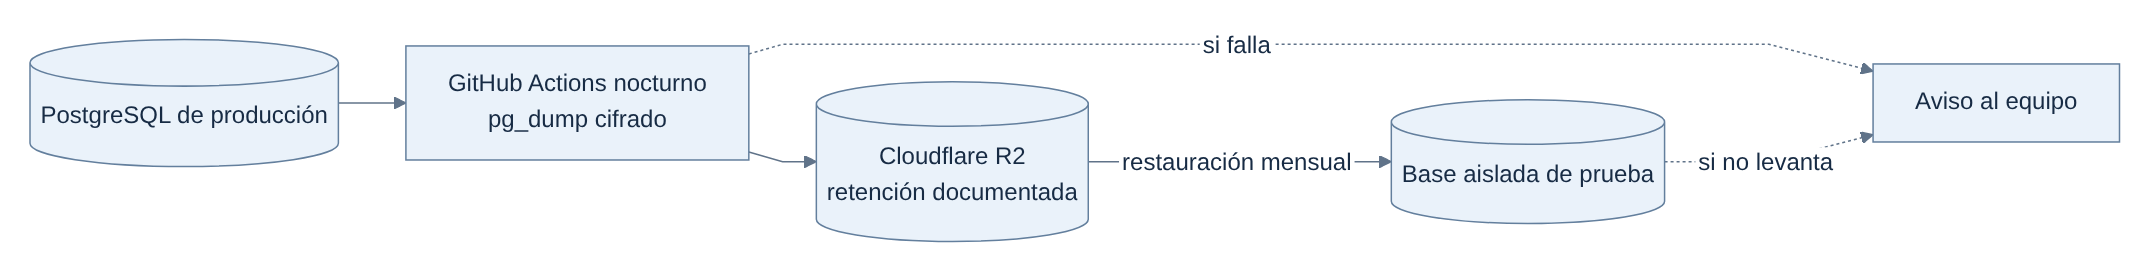
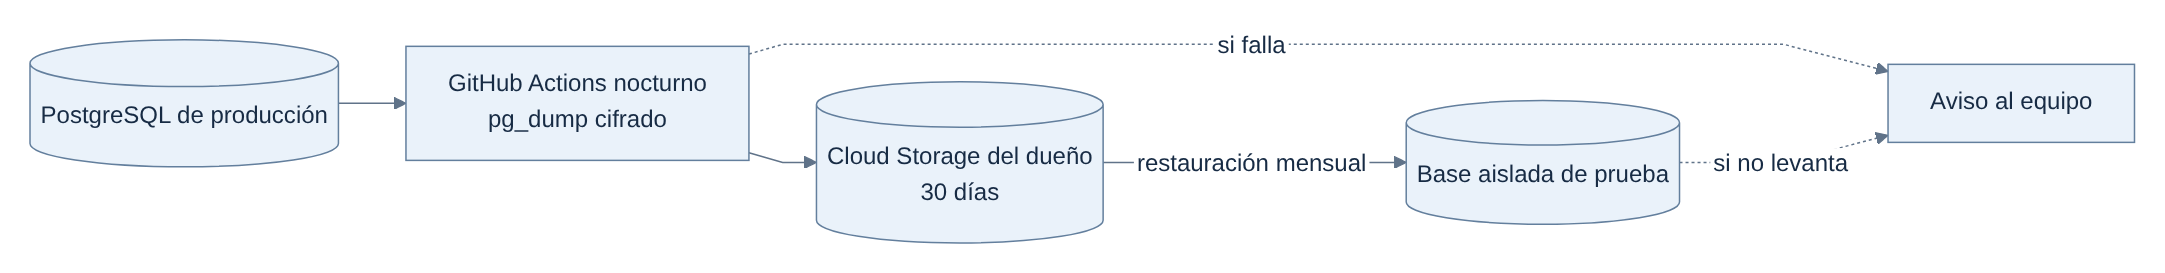
Move the nightly backup to Cloud Storage, encrypted for two keys
The backup never ran: it was skipped every night because R2 was not set up.
Now the paid accounts belong to the owner, so the backups go to a bucket in
his Google Cloud project, and he gets his own key to open them.

- backup.yml uploads to Cloud Storage with Workload Identity Federation
  (no new secrets) and encrypts with age for two keys, team and owner.
- The upload never overwrites a file, and the deploy service account can
  only create objects in the bucket.
- The login condition now also accepts backup.yml on main. Every other
  workflow still needs a v* tag.
- tools/gcp_backup_setup.sh creates the bucket, the 30 day rule, the bucket
  permission and the new login condition.
- ADR-0018, docs and diagrams updated. PG_MAJOR defaults to 18.

diff --git a/docs/diagramas/galeria.html b/docs/diagramas/galeria.html
@@ -34,11 +34,11 @@
         PG[(&quot;PostgreSQL&lt;br/&gt;Neon, con RLS&quot;)]
     end
     GA[&quot;GitHub Actions&lt;br/&gt;backup nocturno&quot;]
-    R2[(&quot;Cloudflare R2&lt;br/&gt;backups cifrados&quot;)]
+    GCS[(&quot;Cloud Storage del dueño&lt;br/&gt;backups cifrados&quot;)]
     Nav --&gt;|&quot;HTTPS, sesión con cookie&quot;| App
     App --&gt; PG
     GA --&gt;|&quot;pg_dump&quot;| PG
-    GA --&gt; R2</code></pre></details><a class="back" href="#inicio">Volver al índice</a></section>
+    GA --&gt; GCS</code></pre></details><a class="back" href="#inicio">Volver al índice</a></section>
 <section id="ARQ-03"><header><p>01-arquitectura.md · diseño objetivo o propuesta, sin implementación comprobada · HU-001, HU-003, HU-020</p><h2>ARQ-03. Capas y apps del backend</h2><nav><a href="01-arquitectura.md#arq-03">Explicación y escenarios</a><a href="png/ARQ-03.png">PNG</a><a href="svg/ARQ-03.svg">SVG</a><a href="fuentes/ARQ-03.mmd">Fuente Mermaid</a></nav></header><div class="drawing"><img src="svg/ARQ-03.svg" alt="ARQ-03. Capas y apps del backend" loading="lazy"></div><details><summary>Ver Mermaid editable</summary><pre><code>flowchart TB
     subgraph Front[&quot;frontend: React&quot;]
         direction LR
@@ -350,10 +350,10 @@
 <section id="OPS-01"><header><p>08-operacion.md · diseño objetivo o propuesta, sin implementación comprobada · HU-016, HU-029</p><h2>OPS-01. Backups y restauración probada</h2><nav><a href="08-operacion.md#ops-01">Explicación y escenarios</a><a href="png/OPS-01.png">PNG</a><a href="svg/OPS-01.svg">SVG</a><a href="fuentes/OPS-01.mmd">Fuente Mermaid</a></nav></header><div class="drawing"><img src="svg/OPS-01.svg" alt="OPS-01. Backups y restauración probada" loading="lazy"></div><details><summary>Ver Mermaid editable</summary><pre><code>flowchart LR
     PG[(&quot;PostgreSQL de producción&quot;)]
     GA[&quot;GitHub Actions nocturno&lt;br/&gt;pg_dump cifrado&quot;]
-    R2[(&quot;Cloudflare R2&lt;br/&gt;retención documentada&quot;)]
+    GCS[(&quot;Cloud Storage del dueño&lt;br/&gt;30 días&quot;)]
     Prueba[(&quot;Base aislada de prueba&quot;)]
     Aviso[&quot;Aviso al equipo&quot;]
-    PG --&gt; GA --&gt; R2
-    R2 --&gt;|&quot;restauración mensual&quot;| Prueba
+    PG --&gt; GA --&gt; GCS
+    GCS --&gt;|&quot;restauración mensual&quot;| Prueba
     GA -.-&gt;|&quot;si falla&quot;| Aviso
     Prueba -.-&gt;|&quot;si no levanta&quot;| Aviso</code></pre></details><a class="back" href="#inicio">Volver al índice</a></section></main></body></html>

diff --git a/docs/operacion/puesta-en-marcha.md b/docs/operacion/puesta-en-marcha.md
@@ -8,9 +8,8 @@ Paso a paso para publicar los cuadernos por primera vez, y cómo se publica cada
 
 | Cuenta | Para qué | Costo esperado |
 |---|---|---|
-| Google Cloud | Correr la app (Cloud Run) y guardar los secretos | USD 0 dentro del cupo gratis. Pide tarjeta |
+| Google Cloud | Correr la app (Cloud Run), guardar los secretos y los backups | USD 0 dentro del cupo gratis, más centavos por los backups. Pide tarjeta |
 | Neon | La base de datos | USD 0 en el plan Free |
-| Cloudflare | Guardar los backups (R2) | USD 0 hasta 10 GB. Pide tarjeta para activar R2 |
 | GitHub | Ya está: corre los chequeos, publica y hace el backup | USD 0 |
 
 Tiempo estimado la primera vez: una hora y media.
@@ -26,7 +25,7 @@ Tiempo estimado la primera vez: una hora y media.
 ## 2. Neon: la base
 
 1. Creá un proyecto en Neon con región **AWS South America (São Paulo)**.
-2. Anotá la **versión de Postgres** que eligió (por ejemplo 17). La vas a cargar en GitHub como `PG_MAJOR`.
+2. Anotá la **versión de Postgres** que eligió (por ejemplo 18). La vas a cargar en GitHub como `PG_MAJOR`.
 3. Creá una base llamada `cuadernos` (o usá la que viene, `neondb`, da igual: lo que importa es que la cadena de conexión apunte a ella).
 4. En **Connect**, copiá la cadena de conexión **directa** (con "Connection pooling" apagado). Termina en `?sslmode=require`. No la pegues en ningún lado todavía: la pide el script del paso 3.
 5. Creá el usuario de solo lectura para los backups. En el **SQL Editor** de Neon, con un password largo generado por el gestor de contraseñas:
@@ -68,27 +67,38 @@ Al final imprime seis valores (`GCP_PROJECT_ID`, `GCP_PROJECT_NUMBER`, etc.). **
 
 Si lo corrés de nuevo, no rompe nada: saltea lo que ya existe.
 
-## 4. Cloudflare R2: dónde viven los backups
+## 4. Google Cloud: el bucket de los backups (script)
 
-1. En Cloudflare, activá **R2** y creá un bucket llamado `cuadernos-backups`.
-2. En el bucket, agregá una regla de ciclo de vida: **borrar los objetos con prefijo `daily/` a los 35 días**. Esa es la retención documentada.
-3. Creá un token de API de R2 con permiso **Object Read & Write**, limitado a ese bucket. Te da un **Access Key ID** y un **Secret Access Key**: van al gestor de contraseñas y después a GitHub.
-4. Anotá el **Account ID** de Cloudflare (aparece en la página de R2).
+En el mismo Cloud Shell del paso 3:
+
+```bash
+bash tools/gcp_backup_setup.sh ID-DEL-PROYECTO
+```
+
+El script:
+
+- Crea un bucket privado, `ID-DEL-PROYECTO-backups`, que borra solo los backups de más de 30 días.
+- Deja que la cuenta de servicio de deploy **solo cree archivos** en ese bucket. No puede leer, pisar ni borrar backups.
+- Deja que GitHub entre desde `main`, pero solo para el workflow de backup. Para todo lo demás sigue haciendo falta un tag `v...`.
+
+Al final imprime `GCS_BACKUP_BUCKET`. No es secreto: va a GitHub en el paso 6.
 
 ## 5. La clave para cifrar los backups
 
-Los backups se cifran con [age](https://github.com/FiloSottile/age). GitHub tiene solo la clave **pública**: puede cifrar, pero no leer. La privada queda con el equipo.
+Los backups se cifran con [age](https://github.com/FiloSottile/age) para **dos claves**: la del equipo y la del dueño. Cualquiera de las dos abre el backup, así el dueño puede recuperar sus datos aunque el equipo no esté. GitHub tiene solo las claves **públicas**: puede cifrar, pero no leer.
 
 En tu PC:
 
 ```bash
 # Windows: winget install FiloSottile.age   macOS: brew install age   Linux: apt install age
 age-keygen -o cuadernos-backup.key
+age-keygen -o cuadernos-backup-duenio.key
 ```
 
-- Muestra la clave pública, empieza con `age1...`. Va a GitHub como `BACKUP_AGE_RECIPIENT`.
-- El archivo `cuadernos-backup.key` es la clave privada. **Guardalo en el gestor de contraseñas.** Sin ese archivo, los backups no se pueden abrir: perderlo es como no tener backups.
-- Nunca lo subas al repo.
+- Cada comando muestra una clave pública, empieza con `age1...`. Las dos van a GitHub en `BACKUP_AGE_RECIPIENTS`, separadas por un espacio.
+- `cuadernos-backup.key` es la clave privada del equipo. **Guardala en el gestor de contraseñas.**
+- `cuadernos-backup-duenio.key` es la del dueño. **Imprimila y dásela en un sobre cerrado**, junto con una hoja que diga qué es y que se la dé a un programador si algún día hace falta restaurar. Después borrá el archivo de tu PC.
+- Sin las claves privadas los backups no se pueden abrir: perder las dos es como no tener backups. Nunca las subas al repo.
 
 ## 6. GitHub: environments, variables y secretos
 
@@ -106,18 +116,15 @@ En el repo, **Settings**:
 | Variable | Valor |
 |---|---|
 | `GCP_PROJECT_ID`, `GCP_PROJECT_NUMBER`, `GCP_REGION`, `GCP_WIF_PROVIDER`, `GCP_DEPLOY_SA`, `GCP_RUNTIME_SA` | Los que imprimió el script del paso 3 |
-| `R2_ACCOUNT_ID` | El Account ID de Cloudflare |
-| `R2_BUCKET` | `cuadernos-backups` |
-| `BACKUP_AGE_RECIPIENT` | La clave pública `age1...` |
-| `PG_MAJOR` | La versión de Postgres de Neon, por ejemplo `17` |
+| `GCS_BACKUP_BUCKET` | El que imprimió el script del paso 4 |
+| `BACKUP_AGE_RECIPIENTS` | Las dos claves públicas `age1...`, separadas por un espacio |
+| `PG_MAJOR` | La versión de Postgres de Neon, por ejemplo `18`. Si falta, el backup usa 18 |
 
 **Secretos del environment `backup`** (dentro del environment, no a nivel repo):
 
 | Secreto | Valor |
 |---|---|
 | `BACKUP_DATABASE_URL` | La cadena de conexión con `cuadernos_backup` |
-| `R2_ACCESS_KEY_ID` | Del token de R2 |
-| `R2_SECRET_ACCESS_KEY` | Del token de R2 |
 
 ## 7. Primera publicación
 
@@ -153,7 +160,7 @@ Después, en `https://LA-DIRECCIÓN/admin/`, cargá los locales, las personas, s
 ## 9. Primer backup y primera restauración
 
 1. En **Actions > Backup > Run workflow**, correlo a mano. Tiene que terminar en verde y mostrar el tamaño del archivo.
-2. Bajá ese archivo desde el bucket de R2.
+2. Bajá ese archivo desde el bucket de Cloud Storage (`daily/`).
 3. Restauralo en una base vacía de tu PC, siguiendo [backups](backups.md#restaurar).
 4. Si los números coinciden con producción, anotalo en la tabla de [backups](backups.md#registro-de-restauraciones).
 

diff --git a/docs/operacion/backups.md b/docs/operacion/backups.md
@@ -8,19 +8,20 @@ La nube es la única copia de los cuadernos ([ADR-0004](../adr/0004-entornos-hos
 |---|---|
 | Cuándo | Todas las noches a las 03:17 (hora de Argentina), con el workflow `Backup` de GitHub Actions. También a mano con "Run workflow" |
 | Qué guarda | Toda la base, con `pg_dump` en formato custom, leída con un usuario de solo lectura |
-| Cifrado | Con `age`. GitHub tiene solo la clave pública. La privada está en el gestor de contraseñas del equipo |
-| Dónde | Cloudflare R2, bucket `cuadernos-backups`, carpeta `daily/`. Otro proveedor que la base |
-| Cuánto tiempo | 35 días, con una regla de ciclo de vida del bucket |
+| Cifrado | Con `age`, para dos claves: la del equipo y la del dueño. Cualquiera de las dos abre el backup. GitHub tiene solo las claves públicas |
+| Dónde | Cloud Storage, bucket `cuadernos-prod-backups` en el proyecto de Google Cloud del dueño, carpeta `daily/`. La base está en Neon, así que la copia queda en otro proveedor |
+| Cuánto tiempo | 30 días, con una regla de ciclo de vida del bucket |
+| Quién sube | La cuenta de servicio de deploy, que en ese bucket solo puede crear archivos: no puede leer, pisar ni borrar backups |
 | Si falla | GitHub manda un email a quien modificó por última vez el workflow. Revisar la pestaña Actions una vez por semana |
 
-Neon Free no restaura a un punto en el tiempo. Si alguien borra datos a las 15 h, se vuelve al backup de la noche anterior y se pierde lo cargado ese día.
+Neon Free permite volver la base a cualquier momento de las **últimas 6 horas** (Backup & Restore en la consola de Neon). Sirve para un error del día. Para algo más viejo, o si se pierde el proyecto de Neon, se vuelve al backup de la noche anterior y se pierde lo cargado ese día.
 
 ## Restaurar
 
 Sirve para la prueba mensual y para recuperarse de un desastre. Se hace en una base **vacía y aislada**, nunca sobre producción.
 
-1. Bajá el backup desde R2 (`daily/cuadernos-AAAAMMDD-HHMMSS.dump.age`).
-2. Tené a mano la clave privada `cuadernos-backup.key` del gestor de contraseñas.
+1. Bajá el backup desde la consola de Google Cloud: **Cloud Storage > Buckets > `cuadernos-prod-backups` > `daily/`** (`cuadernos-AAAAMMDD-HHMMSS.dump.age`). Hace falta una cuenta con permiso de lectura en el proyecto (Owner o Viewer).
+2. Tené a mano una de las dos claves privadas: la del equipo (`cuadernos-backup.key`, en el gestor de contraseñas) o la del dueño (impresa, en el sobre).
 3. Levantá Postgres local y creá una base vacía. Con el Docker Compose del repo:
 
 ```bash
@@ -39,7 +40,7 @@ El script se niega a escribir en una base que no esté vacía o que parezca la d
 5. Compará esos números con producción (por ejemplo, desde el admin). Si coinciden, anotalo abajo.
 6. Borrá la base de prueba y el archivo bajado: tienen datos reales.
 
-> La versión de Postgres local tiene que ser igual o mayor que la de Neon. Si Neon está en 17 y el Compose en 16, cambiá la imagen de `db` a `postgres:17` para esta prueba.
+> La versión de Postgres local tiene que ser igual o mayor que la de Neon. Neon está en 18 y el Compose en 16: para esta prueba cambiá la imagen de `db` a `postgres:18` (en un volumen nuevo, porque los datos de una versión mayor no los lee otra).
 
 ## Registro de restauraciones
 

diff --git a/docs/adr/0018-backups-en-cloud-storage-del-duenio.md b/docs/adr/0018-backups-en-cloud-storage-del-duenio.md
@@ -1,0 +1,34 @@
+# ADR-0018. Los backups van a Cloud Storage, en el proyecto del dueño, cifrados para dos claves
+
+- **Estado:** propuesta, 26/11/2026. Reemplaza la fila "Backup" de [ADR-0007](0007-deploy-r1a.md).
+
+## Contexto
+
+ADR-0007 mandaba los backups a Cloudflare R2, en una cuenta del equipo. Ahora las cuentas con costo pasan a nombre del dueño (P-04): el proyecto de Google Cloud y la organización de Neon quedan a su nombre y los paga él. Los backups seguían en una cuenta del equipo, con la tarjeta del equipo, y se cifraban con una sola clave que tenía solo el equipo. Si el equipo no está, el dueño no tiene cómo recuperar sus datos.
+
+Además, el workflow de backup nunca llegó a correr: se salteaba todas las noches porque faltaba configurar R2.
+
+## Opciones
+
+1. **Seguir con R2 en la cuenta del equipo.** Gratis a este tamaño, pero queda fuera de las cuentas del dueño y suma un secreto más en GitHub (el token de R2).
+2. **Google Drive del dueño.** Con una cuenta de Gmail común, una cuenta de servicio no puede guardar archivos en Mi unidad. Haría falta OAuth en nombre del dueño: el token vence cada 7 días mientras la app está en modo de prueba, y dejaría en GitHub una credencial con acceso a su Drive.
+3. **Un hosting web.** No está pensado para guardar backups, cuesta todos los meses y suma otro secreto con más permisos de los necesarios.
+4. **Un bucket de Cloud Storage en el proyecto del dueño.** Lo paga él (centavos a este tamaño), GitHub ya entra a ese proyecto sin archivos de clave y no hace falta ningún secreto nuevo.
+
+## Decisión
+
+Opción 4.
+
+- Bucket privado `cuadernos-prod-backups` en `southamerica-east1`, con una regla que borra lo de `daily/` a los 30 días (ADR-0007 decía 35). Lo crea `tools/gcp_backup_setup.sh`.
+- Sube la cuenta de servicio de deploy, que en ese bucket tiene solo `roles/storage.objectCreator`: puede crear archivos, pero no leerlos, pisarlos ni borrarlos. La subida usa `ifGenerationMatch=0`, así nunca reemplaza un backup existente.
+- Para que el backup nocturno pueda entrar desde `main`, la condición de Workload Identity Federation acepta, además de los tags `v*`, **solo** el workflow `backup.yml` en `main` (claim `workflow_ref`). Cualquier otro workflow en `main` sigue sin poder entrar.
+- El backup se cifra con `age` para **dos claves**: la del equipo (en el gestor de contraseñas) y la del dueño (impresa, en un sobre). Cualquiera de las dos lo abre.
+
+Se eligió no crear una cuenta de servicio aparte para el backup.
+
+## Consecuencias
+
+- Los backups quedan en las cuentas del dueño y a su costo, y él puede recuperar sus datos sin depender del equipo.
+- Backup y base siguen en proveedores distintos (Google y Neon).
+- La cuenta de deploy ahora también se usa desde `main`, aunque solo desde `backup.yml`. Quien pueda cambiar ese archivo en `main` podría usar los permisos de deploy (Cloud Run Admin). Hoy solo el equipo puede mergear a `main`. Si eso cambia, conviene separar el backup en una cuenta de servicio propia, que solo pueda crear archivos en el bucket.
+- El backup y la app quedan en el mismo proyecto de Google Cloud. Si se borra el proyecto entero, se van los dos. La base no, porque está en Neon.

diff --git a/docs/adr/README.md b/docs/adr/README.md
@@ -18,7 +18,7 @@ Un ADR registra una decisión importante: el contexto, las opciones que se mirar
 | [0004](0004-entornos-hosting-ci-cd.md) | Entornos, hosting de bajo costo y CI/CD | Aceptada | ADR-0008, sin servidor local ni ARCA |
 | [0005](0005-analisis-estatico-seguridad.md) | Análisis estático de seguridad (SAST) en CI | Aceptada | ADR-0009 |
 | [0006](0006-react-servido-por-django.md) | El portal React lo sirve Django, con sesión por cookie | Propuesta | Nueva |
-| [0007](0007-deploy-r1a.md) | Cómo se publica R1a: San Pablo, un solo entorno, tag con aprobación | Propuesta | Nueva |
+| [0007](0007-deploy-r1a.md) | Cómo se publica R1a: San Pablo, un solo entorno, tag con aprobación | Propuesta (la fila del backup cambiada por ADR-0018) | Nueva |
 | [0008](0008-haber-calculado-sin-espejo.md) | El haber se calcula desde el medio de pago, sin ventas espejo | Propuesta (el punto de partida cambiado por ADR-0016) | Nueva |
 | [0009](0009-cuadernos-como-en-el-papel.md) | Los cuadernos son las cuentas personales del dueño y se cargan como están en el papel | Reemplazada por ADR-0010 en cómo se cargan los D | Nueva |
 | [0010](0010-gasto-con-debito-suma-su-venta.md) | Un gasto con débito suma también su venta con débito, y el sistema la crea | Aceptada (un punto cambiado por ADR-0012, ampliada por ADR-0013) | Nueva |
@@ -29,6 +29,7 @@ Un ADR registra una decisión importante: el contexto, las opciones que se mirar
 | [0015](0015-vaciar-los-cuadernos-de-un-local.md) | Vaciar los cuadernos de un local desde el admin | Aceptada | Nueva |
 | [0016](0016-haber-inicial-sin-fecha-y-caja-en-vivo.md) | El haber inicial es un solo monto, sin fecha ni turno, y la caja se refresca sola | Aceptada | Nueva |
 | [0017](0017-copiar-un-local-a-uno-de-pruebas.md) | Copiar los cuadernos de un local a un local de pruebas | Aceptada | Nueva |
+| [0018](0018-backups-en-cloud-storage-del-duenio.md) | Los backups van a Cloud Storage, en el proyecto del dueño, cifrados para dos claves | Propuesta | Nueva |
 
 
 ## Cómo escribir uno nuevo

diff --git a/docs/adr/0007-deploy-r1a.md b/docs/adr/0007-deploy-r1a.md
@@ -19,7 +19,7 @@ Las cuentas son del equipo hasta que se resuelva P-04 (a nombre de quién quedan
 | Migraciones | Un job de Cloud Run (`cuadernos-migrate`) que corre antes de cada despliegue, con la misma imagen | Una sola vez por versión y antes de recibir tráfico, nunca al arrancar cada contenedor |
 | Tamaño | De 0 a 2 instancias, 1 vCPU y 512 MiB | Cuesta cero sin uso. El tope de 2 evita que un error o un ataque genere una factura |
 | Dirección | La fija de Cloud Run: `cuadernos-NÚMERO.southamerica-east1.run.app` | San Pablo no permite conectar un dominio propio directo. Para R1a alcanza |
-| Backup | Nocturno con `pg_dump`, cifrado con `age` (solo la clave pública en GitHub), a Cloudflare R2. Retención: 35 días con una regla del bucket | Otro proveedor que la base. Si alguien entra a GitHub, no puede leer los backups |
+| Backup | Nocturno con `pg_dump`, cifrado con `age` (solo la clave pública en GitHub), a Cloudflare R2. Retención: 35 días con una regla del bucket. **Cambiado por [ADR-0018](0018-backups-en-cloud-storage-del-duenio.md): ahora va a Cloud Storage en el proyecto del dueño, cifrado para dos claves, y se guarda 30 días** | Otro proveedor que la base. Si alguien entra a GitHub, no puede leer los backups |
 | Restauración | Manual, con `tools/restore_backup.sh`, una vez por mes y antes de la entrega | El backlog dejó la automática para R1 (HU-016) |
 
 ## Opciones que se miraron

diff --git a/docs/diagramas/01-arquitectura.md b/docs/diagramas/01-arquitectura.md
@@ -45,16 +45,16 @@ flowchart LR
         PG[("PostgreSQL<br/>Neon, con RLS")]
     end
     GA["GitHub Actions<br/>backup nocturno"]
-    R2[("Cloudflare R2<br/>backups cifrados")]
+    GCS[("Cloud Storage del dueño<br/>backups cifrados")]
     Nav -->|"HTTPS, sesión con cookie"| App
     App --> PG
     GA -->|"pg_dump"| PG
-    GA --> R2
+    GA --> GCS
 ```
 
 **Archivos ARQ-02:** [SVG](svg/ARQ-02.svg) · [PNG](png/ARQ-02.png) · [Mermaid](fuentes/ARQ-02.mmd).
 
-**Lectura:** dos piezas en la nube (el servicio que sirve la API y el portal, y la base) y un backup que vive en otro proveedor (ADR-0006). La base es la única copia de los cuadernos (ADR-0004): por eso el backup no está en Neon sino en R2.
+**Lectura:** dos piezas en la nube (el servicio que sirve la API y el portal, y la base) y un backup que vive en otro proveedor (ADR-0006). La base es la única copia de los cuadernos (ADR-0004): por eso el backup no está en Neon sino en Cloud Storage, en el proyecto del dueño (ADR-0018).
 
 <a id="arq-03"></a>
 

diff --git a/docs/diagramas/08-operacion.md b/docs/diagramas/08-operacion.md
@@ -13,11 +13,11 @@
 flowchart LR
     PG[("PostgreSQL de producción")]
     GA["GitHub Actions nocturno<br/>pg_dump cifrado"]
-    R2[("Cloudflare R2<br/>retención documentada")]
+    GCS[("Cloud Storage del dueño<br/>30 días")]
     Prueba[("Base aislada de prueba")]
     Aviso["Aviso al equipo"]
-    PG --> GA --> R2
-    R2 -->|"restauración mensual"| Prueba
+    PG --> GA --> GCS
+    GCS -->|"restauración mensual"| Prueba
     GA -.->|"si falla"| Aviso
     Prueba -.->|"si no levanta"| Aviso
 ```
